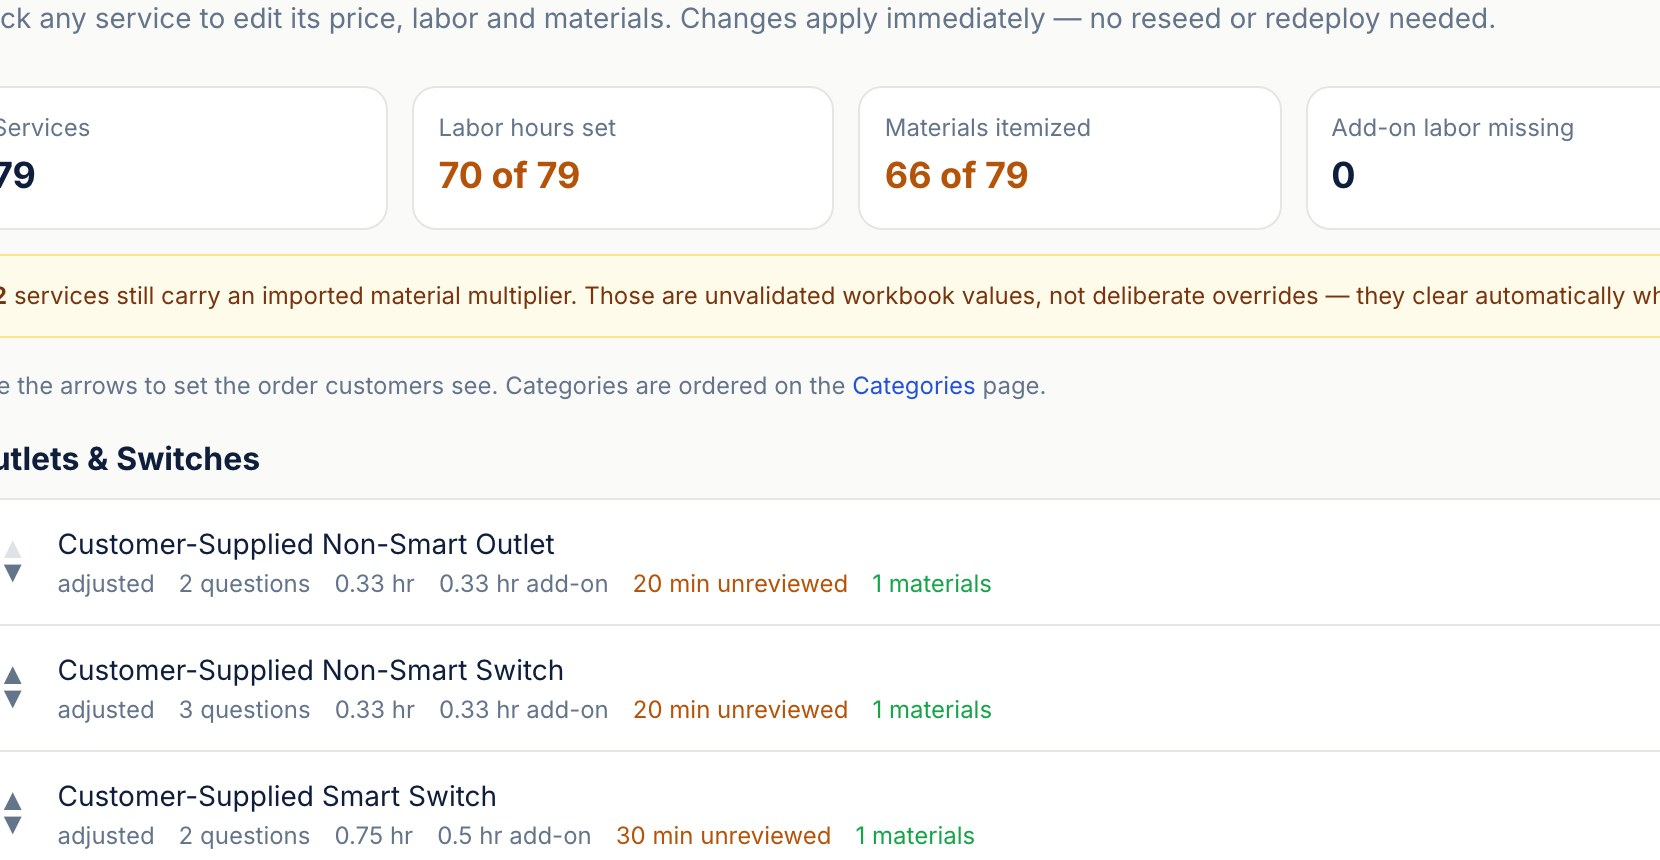
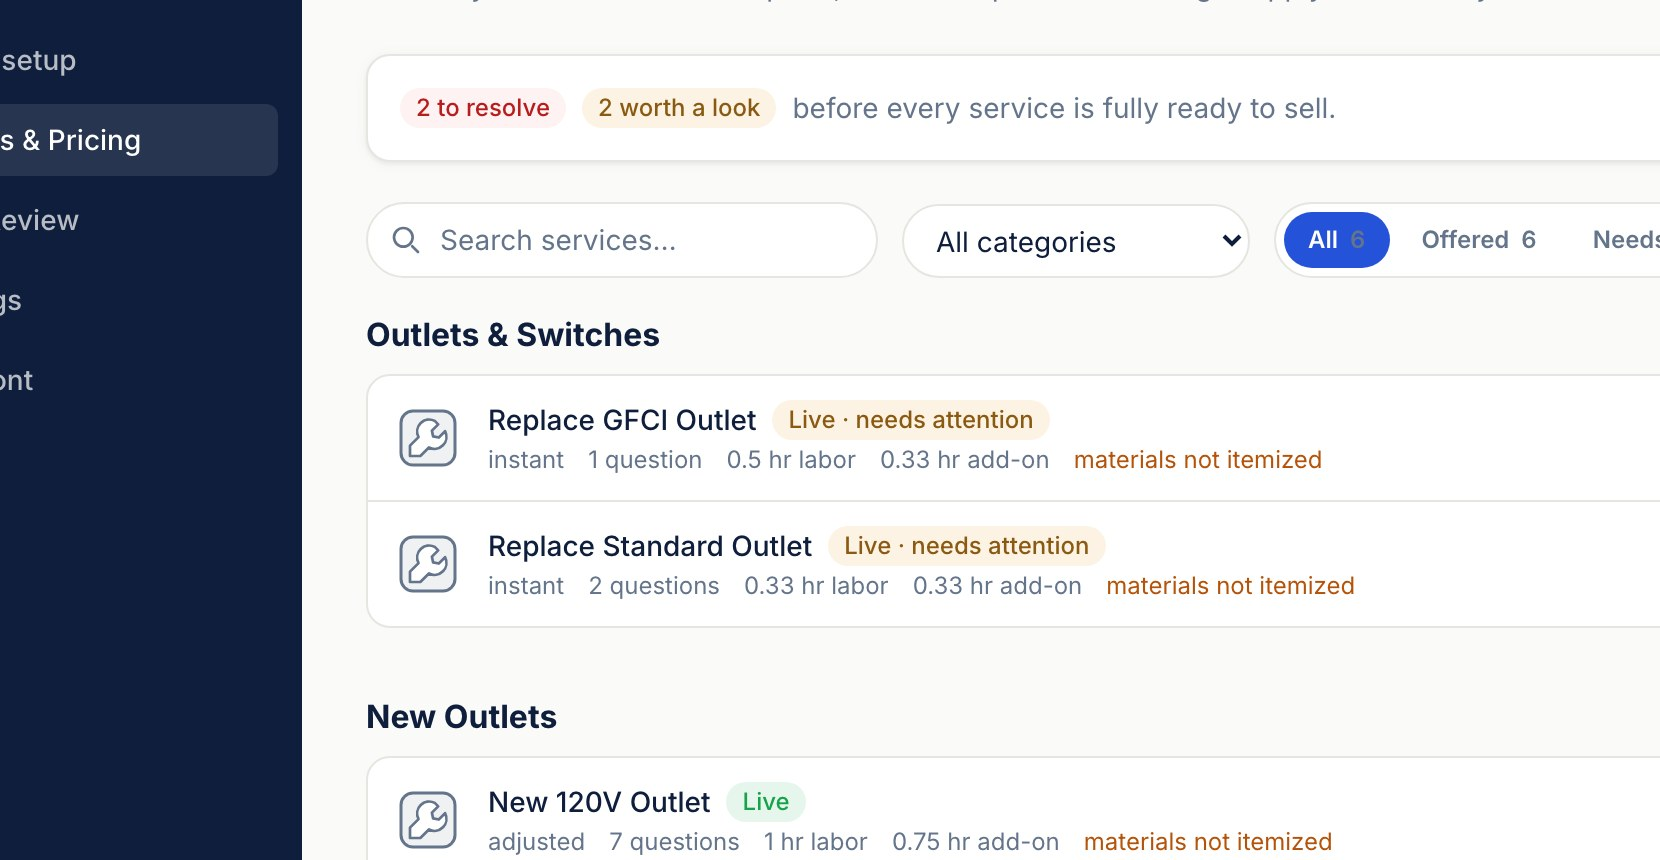
The contractor screenshots show the admin panel that shipped
Two redesigns landed and the marketing site kept showing what came before
them: b657ed1 replaced the contractor navigation with a shared sidebar shell,
and f6af7bc rebuilt the Services & Pricing catalog and the service editor —
TreeEditor.tsx deleted, GuidedPricingWorkspace.tsx in its place. The four PNGs
dated from 28 August and admin-services.jpg from 2 September, so every
contractor-side image on the site showed a navigation that no longer exists.

FIVE RENDERED IMAGES, and only those. adminServices in the homepage hero, and
servicesPricing / guidedPricing / hoursAvailability / storefrontDesign on
/product/what-you-control. adminRates, adminHours, serviceArea, homeServices
and homeQuestion sit in the manifest but are rendered nowhere since the
September compression pass, so they were left alone; integrations and
service-area were recaptured incidentally and restored. Homeowner-facing
images are untouched and byte-identical: the redesign changed no file under
app/[site], so nothing a homeowner sees moved.

SHOT ON REHEARSAL, NOT PRODUCTION. The worktree's DATABASE_URL is the
rehearsal branch and carries no production endpoint at all, so the capture
could not have reached production had it tried. The demo contractor was
created there, photographed and destroyed; rehearsal is back to the four
tenants it held before. Sanitization is structural rather than scrubbed:
the tenant IS Voltmark Electric, and assertDemoOnly refuses to write a file
[…]

Changed region(s): [[0.0, 0.0, 1.0, 1.0]]

diff --git a/scripts/capture-marketing-shots.ts b/scripts/capture-marketing-shots.ts
@@ -44,6 +44,14 @@ type Shot = {
   /**
    * Capture width in CSS px, defaulting to the full viewport.
    *
+   * THE 1040 CROP IS GONE for the admin surfaces. It was written when these
+   * sat in quarter-width module tiles; What You Control now shows them at
+   * 58vw, and the September portal redesign added a fixed ~245px sidebar that
+   * the crop could not pay for. The result cut sentences mid-word at the right
+   * edge — "jobs too long to finish before t", "you don't have t" — which
+   * reads as a broken screenshot rather than a cropped one. A full-viewport
+   * capture downsamples to roughly 835px on the page and stays legible.
+   *
    * The module tiles are a quarter of a 1440px grid, so a full-width capture
    * lands in them at roughly one fifth scale and every label turns to texture.
    * Cropping to the left of the screen instead keeps the same real screenshot
@@ -51,6 +59,16 @@ type Shot = {
    */
   width?: number;
   anchor?: string;
+  /**
+   * A control to press before the shutter opens, matched by its text.
+   *
+   * The service workspace keeps its four panes in the DOM and shows one, so a
+   * heading anchor can match a pane that is not on screen — which is how the
+   * first capture of the rebuilt editor produced a photograph of the Overview
+   * tab captioned as the question editor. Pressing the tab is the difference
+   * between "this heading exists" and "this is what a contractor sees".
+   */
+  click?: string;
   /**
    * Why this surface is NOT photographed for the marketing site. Recorded
    * here rather than by silently omitting the entry: "we have no screenshot
@@ -62,15 +80,15 @@ type Shot = {
 
 const SHOTS: Shot[] = [
   { name: "storefront", path: `/${DEMO.slug}/services/tv-media`, height: 760 },
-  { name: "services-pricing", width: 1040, path: "/dashboard/services", height: 620 },
-  { name: "storefront-design", width: 1040, path: "/dashboard/design", height: 620 },
-  { name: "hours-availability", width: 1040, path: "/dashboard/business-hours", height: 620 },
-  { name: "service-area", width: 1040, path: "/dashboard/service-area", height: 620 },
+  { name: "services-pricing", path: "/dashboard/services", height: 900 },
+  { name: "storefront-design", path: "/dashboard/design", height: 900 },
+  { name: "hours-availability", path: "/dashboard/business-hours", height: 900 },
+  { name: "service-area", path: "/dashboard/service-area", height: 900 },
   {
     name: "crew-eligibility", width: 1040, path: "/dashboard/jobber/crews", height: 620,
     notReady: "empty until a Jobber account is connected and crews are synced — the demo tenant has neither",
   },
-  { name: "integrations", width: 1040, path: "/dashboard/jobber", height: 620 },
+  { name: "integrations", path: "/dashboard/jobber", height: 900 },
   {
     name: "photo-review", width: 1040, path: "/dashboard/quotes", height: 620,
     notReady: "an empty queue; photographing it would need fabricated customer submissions",
@@ -130,7 +148,13 @@ async function main() {
   mkdirSync(OUT, { recursive: true });
 
   const guided = await guidedPricingPath();
-  if (guided) SHOTS.splice(2, 0, { name: "guided-pricing", path: guided, height: 620, width: 1040, anchor: "Guided Pricing" });
+  // THE ANCHOR FOLLOWS THE PRODUCT. The service editor was rebuilt in the
+  // September workspace redesign — TreeEditor became GuidedPricingWorkspace —
+  // and the screen no longer carries a "Guided Pricing" heading. The anchor
+  // said so by refusing to shoot, which is the behavior working: it did not
+  // photograph whatever happened to be on screen. "Customer questions" is the
+  // rebuilt workspace's own heading.
+  if (guided) SHOTS.splice(2, 0, { name: "guided-pricing", path: guided, height: 900, click: "Customer questions", anchor: "Customer questions" });
   const browser = await chromium.launch();
   const ctx = await browser.newContext({ viewport: VIEWPORT, deviceScaleFactor: 2 });
   const page = await ctx.newPage();
@@ -150,6 +174,20 @@ async function main() {
     if (!res || res.status() >= 400) {
       console.log(`  ! ${shot.name}: ${res?.status() ?? "no response"} at ${shot.path} — skipped`);
       continue;
+    }
+    if (shot.click) {
+      const pressed = await page.evaluate((text) => {
+        const el = [...document.querySelectorAll("button,[role='tab'],a")]
+          .find((e) => e.textContent?.trim() === text) as HTMLElement | undefined;
+        if (!el) return false;
+        el.click();
+        return true;
+      }, shot.click);
+      if (!pressed) {
+        console.log(`  ! ${shot.name}: no control labeled "${shot.click}" — skipped`);
+        continue;
+      }
+      await page.waitForTimeout(400);
     }
     if (shot.anchor) {
       const found = await page.evaluate((text) => {

diff --git a/components/marketing/shots.ts b/components/marketing/shots.ts
@@ -74,8 +74,8 @@ export const SHOTS: Record<string, Shot | null> = {
   guidedPricing: {
     src: "/marketing/guided-pricing.png",
     alt: "The Guided Pricing editor, showing a question, its answers and what each answer does",
-    w: 2080,
-    h: 1240,
+    w: 2880,
+    h: 1800,
   },
 
   // THE CONTRACTOR'S PANEL — /product/what-you-control.
@@ -87,20 +87,20 @@ export const SHOTS: Record<string, Shot | null> = {
   servicesPricing: {
     src: "/marketing/services-pricing.png",
     alt: "The Services & Pricing catalog, listing each service with its price, labor hours, same-visit price and materials",
-    w: 2080,
-    h: 1240,
+    w: 2880,
+    h: 1800,
   },
   storefrontDesign: {
     src: "/marketing/storefront-design.png",
     alt: "The storefront design picker, showing selectable layouts previewed with the contractor's own branding",
-    w: 2080,
-    h: 1240,
+    w: 2880,
+    h: 1800,
   },
   hoursAvailability: {
     src: "/marketing/hours-availability.png",
     alt: "The Hours & Availability screen, where working hours and bookable windows are set",
-    w: 2080,
-    h: 1240,
+    w: 2880,
+    h: 1800,
   },
   // ── The homeowner's side, captured from the running storefront ────────
   homeServices: {
@@ -141,7 +141,7 @@ export const SHOTS: Record<string, Shot | null> = {
     h: 860,
     full: "/marketing/admin-services-full.jpg",
     fullW: 2560,
-    fullH: 12378,
+    fullH: 2016,
   },
   adminRates: {
     src: "/marketing/admin-rates.jpg",
